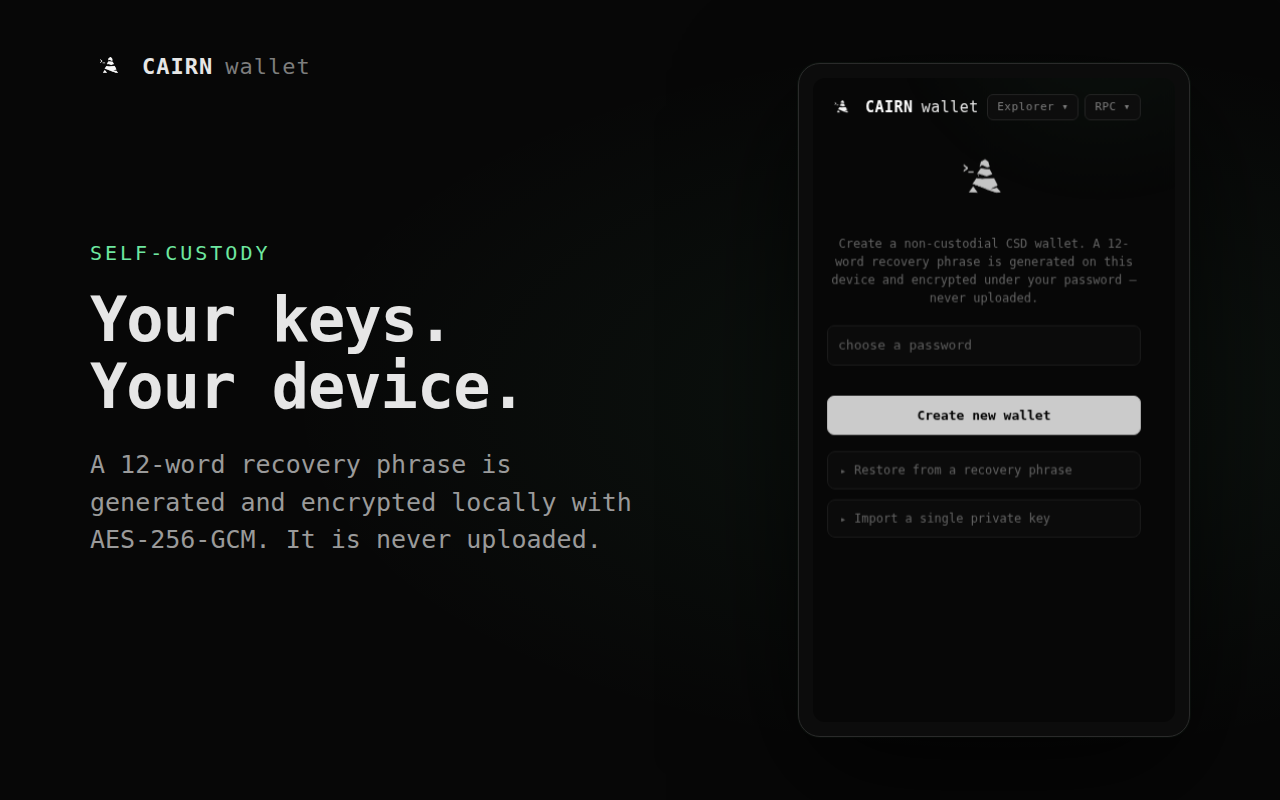
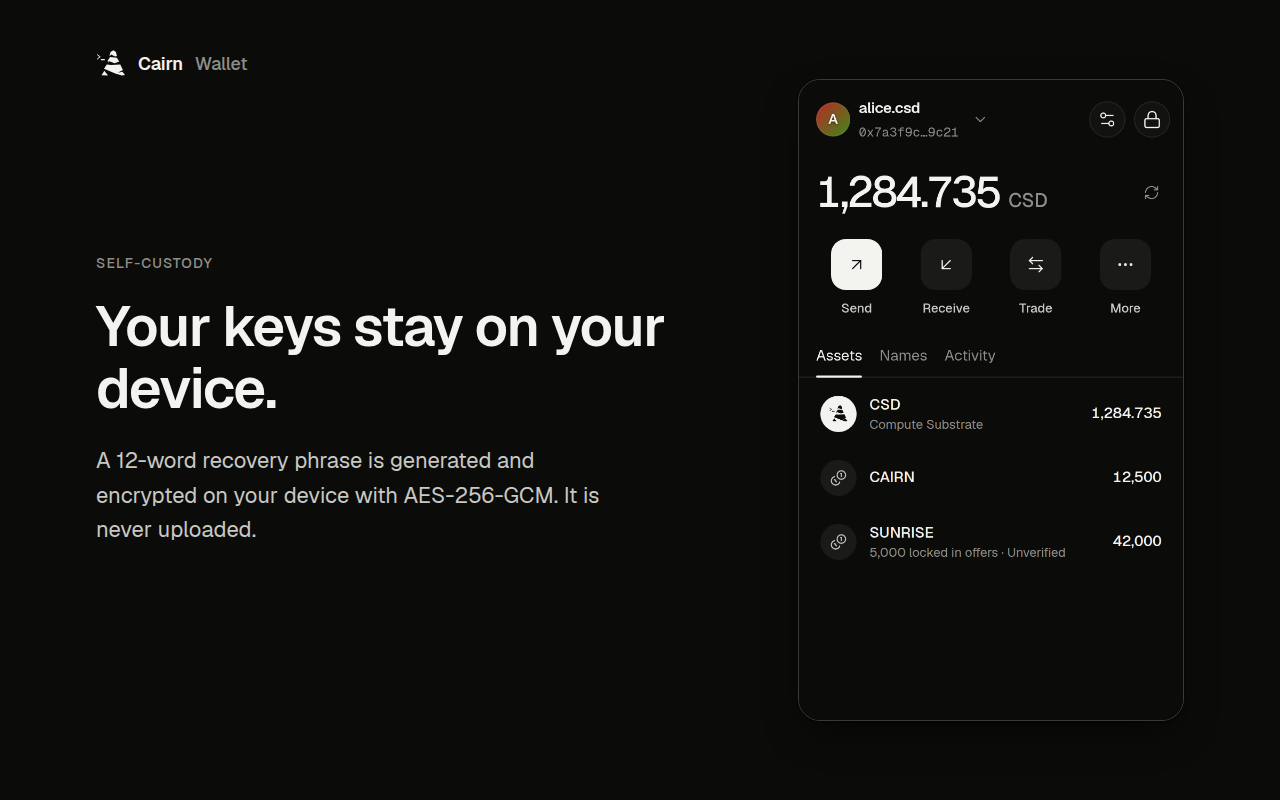
Store images for wallet 0.3: rendered from the real pages in the new design (Plan 89 7d)
store/gen-assets.mjs now renders every image itself: it captures the popup and the approval window from this
checkout's pages (test/helpers/walletpage.mjs, bundled from src/, a fixed demo wallet, every request aborted) at 2x,
then frames them in HTML built from the vendored cairn-ui tokens and Geist, and screenshots each at the store's size:
five 1280x800 screenshots (home, the send review with its first-time warning, the approval window, .csd names, the
light theme), the 440x280 promo tile and the 1400x560 marquee. Two runs are pixel-identical. The old phosphor
captures (1-setup, 2-backup, 3-main, 4-send) go; openWalletPage takes an optional deviceScaleFactor.

Claude-Session: https://claude.ai/code/session_01E5HN3FXkT8EMN8Vidtu47a

diff --git a/store/README.md b/store/README.md
@@ -7,11 +7,11 @@ Everything needed to list and update Cairn Wallet on the Chrome Web Store. For a
 | `PUBLISH-RUNBOOK.md` | The dual-control, reproduce-then-publish procedure for each release (security-critical). |
 | `STORE-LISTING.md` | Paste-ready copy for every dashboard field (name, description, single purpose, permission justifications, data disclosures, remote-code=No, trader status, reviewer notes). |
 | `PRIVACY-POLICY.md` | The privacy policy text; the same text is served at https://cairn-substrate.com/wallet-privacy.html, the URL the store listing uses. Change both together. |
-| `assets/screenshot-1..4.png` | 1280×800 store screenshots (self-custody, HD backup, on-chain actions, safe send). |
+| `assets/screenshot-1..5.png` | 1280×800 store screenshots (self-custody, the send review, the approval window, .csd names, the light theme). |
 | `assets/promo-440x280.png` | Small promo tile (required). |
 | `assets/marquee-1400x560.png` | Marquee tile (optional, for featuring). |
-| `assets/1..4-*.png` | The raw popup captures the framed screenshots were built from. |
-| `gen-assets.mjs` | Regenerates the framed assets from the popup captures (render the HTML it emits at the listed pixel sizes and screenshot). |
+| `assets/1..5-*.png` | The popup and approval-window captures the screenshots frame (2x, from the real pages of this checkout). |
+| `gen-assets.mjs` | Renders every image above in headless Chromium from the built pages and a fixed demo wallet (offline); needs `PLAYWRIGHT_CORE` and `PLAYWRIGHT_CHROMIUM`. |
 
 The store **icon** is the existing `../public/icons/icon-128.png`.
 
